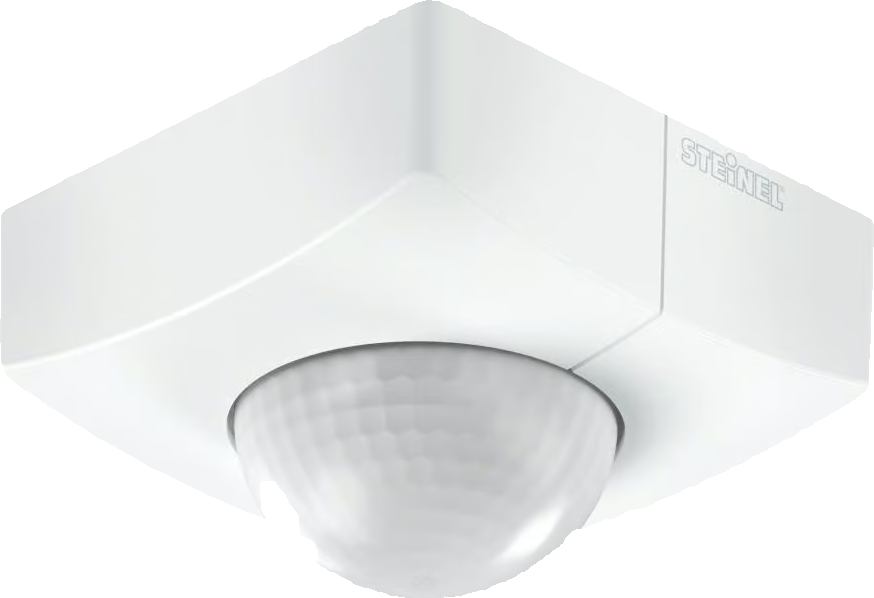
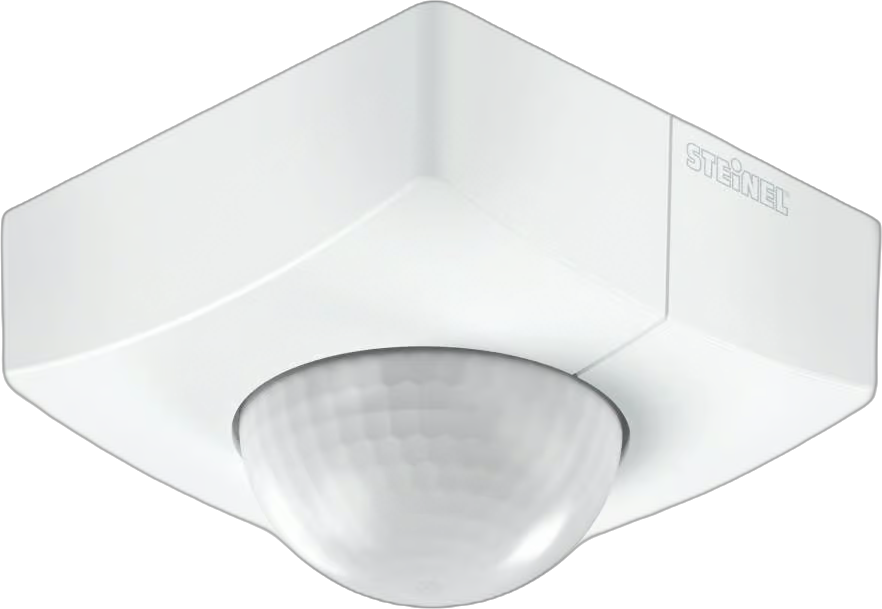
Segment the two IS housings with u2net
Retrying IS 345 Highbay: isnet-general-use drops the right-hand corner of the
casing, and because that gap reaches the outer background rather than being
enclosed, hole-filling cannot reach it and the threshold alternative is worse at
every delta tried.

Trying the other rembg models settles it. u2net keeps the whole housing, and
silueta and u2netp do too. isnet stays the default because it wins across the
catalogue, so this is a per-product override rather than a change of default,
which would disturb 119 other cut-outs.

is-3360 Highbay has the same weakness and takes the same override: isnet leaves
it 88.7% solid against u2net's 98.8%. is-3360 is identical under both models and
is left alone.

diff --git a/scripts/make-cutouts.py b/scripts/make-cutouts.py
@@ -247,6 +247,19 @@ def threshold_cutout(im):
     return Image.fromarray(np.dstack([np.array(rgb), mask]).astype(np.uint8), 'RGBA')
 
 
+# Products where a different segmentation model is clearly better.
+#
+# isnet-general-use wins across the catalogue and is the default, but on the
+# IS 345 housing it drops the right-hand corner of the casing — and because that
+# gap reaches the outer background, hole-filling cannot reach it. u2net keeps the
+# whole housing. Switching the default back would disturb 119 other cut-outs, so
+# this stays per-product.
+MODEL_OVERRIDE = {
+    'sensors/is-345-highbay': 'u2net',
+    'sensors/is-3360-highbay': 'u2net',   # isnet leaves it 88.7% solid, u2net 98.8%
+}
+
+
 def chosen_source(cands):
     """The same source the tile renderer would pick.
 
@@ -289,6 +302,15 @@ def has_own_alpha(path, threshold=0.05):
     return bool((a < 10).mean() > threshold)
 
 
+def session_for(key, cache={}):
+    """One rembg session per model, created on demand."""
+    name = MODEL_OVERRIDE.get(key, 'isnet-general-use')
+    if name not in cache:
+        from rembg import new_session
+        cache[name] = new_session(name)
+    return cache[name]
+
+
 def main():
     from rembg import new_session, remove
 
@@ -305,7 +327,7 @@ def main():
     # better on every product, and decisively better on pale fittings on pale
     # backdrops, where u2net returns a near-empty mask: profiles went 2.6% -> 95.6%
     # solid, lf20 28% -> 57%, Leda 63% -> 70%.
-    session = new_session('isnet-general-use')
+    sessions = {}
     done = skipped = failed = 0
     started = time.time()
 
@@ -326,7 +348,7 @@ def main():
                 cut = source_im.convert('RGBA')
             else:
                 rgb = source_im.convert('RGB')
-                cut = remove(rgb, session=session, alpha_matting=False)
+                cut = remove(rgb, session=session_for(f'{category}/{slug}'), alpha_matting=False)
                 # On a pale backdrop, trust whichever keeps more of the product.
                 # This only ever adds coverage, so it cannot make a good cut-out
                 # worse; it exists because the models confidently return a corner
